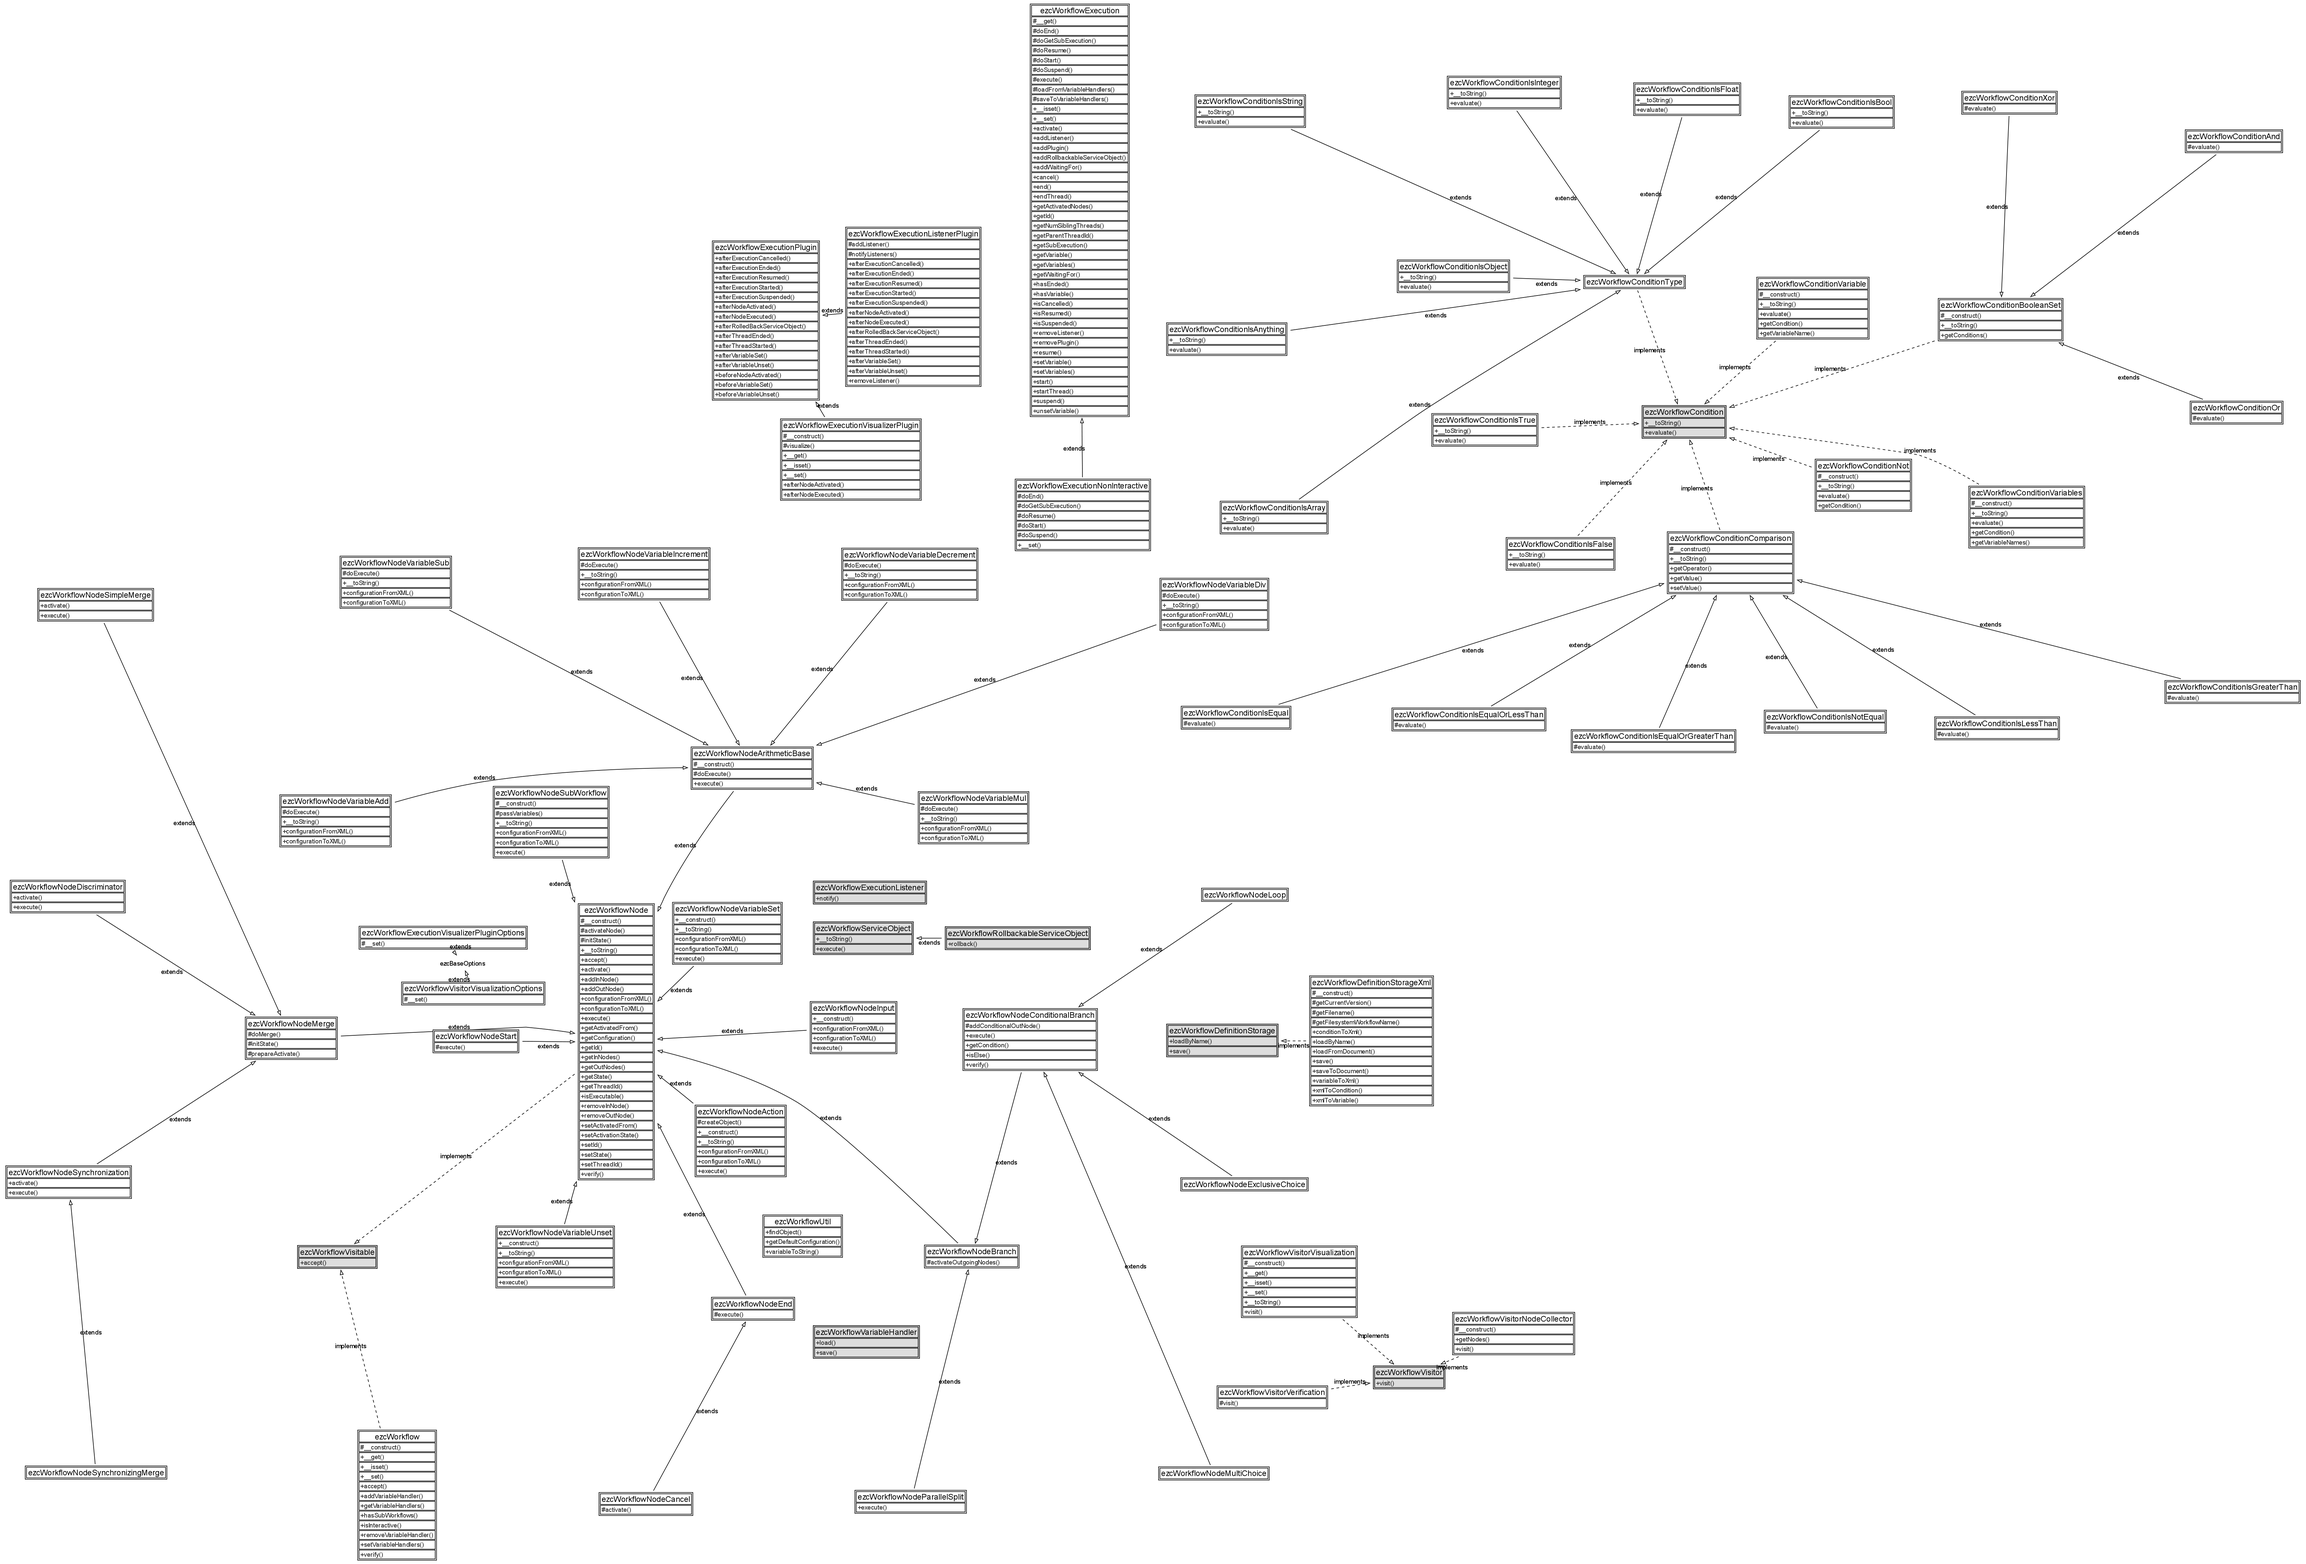
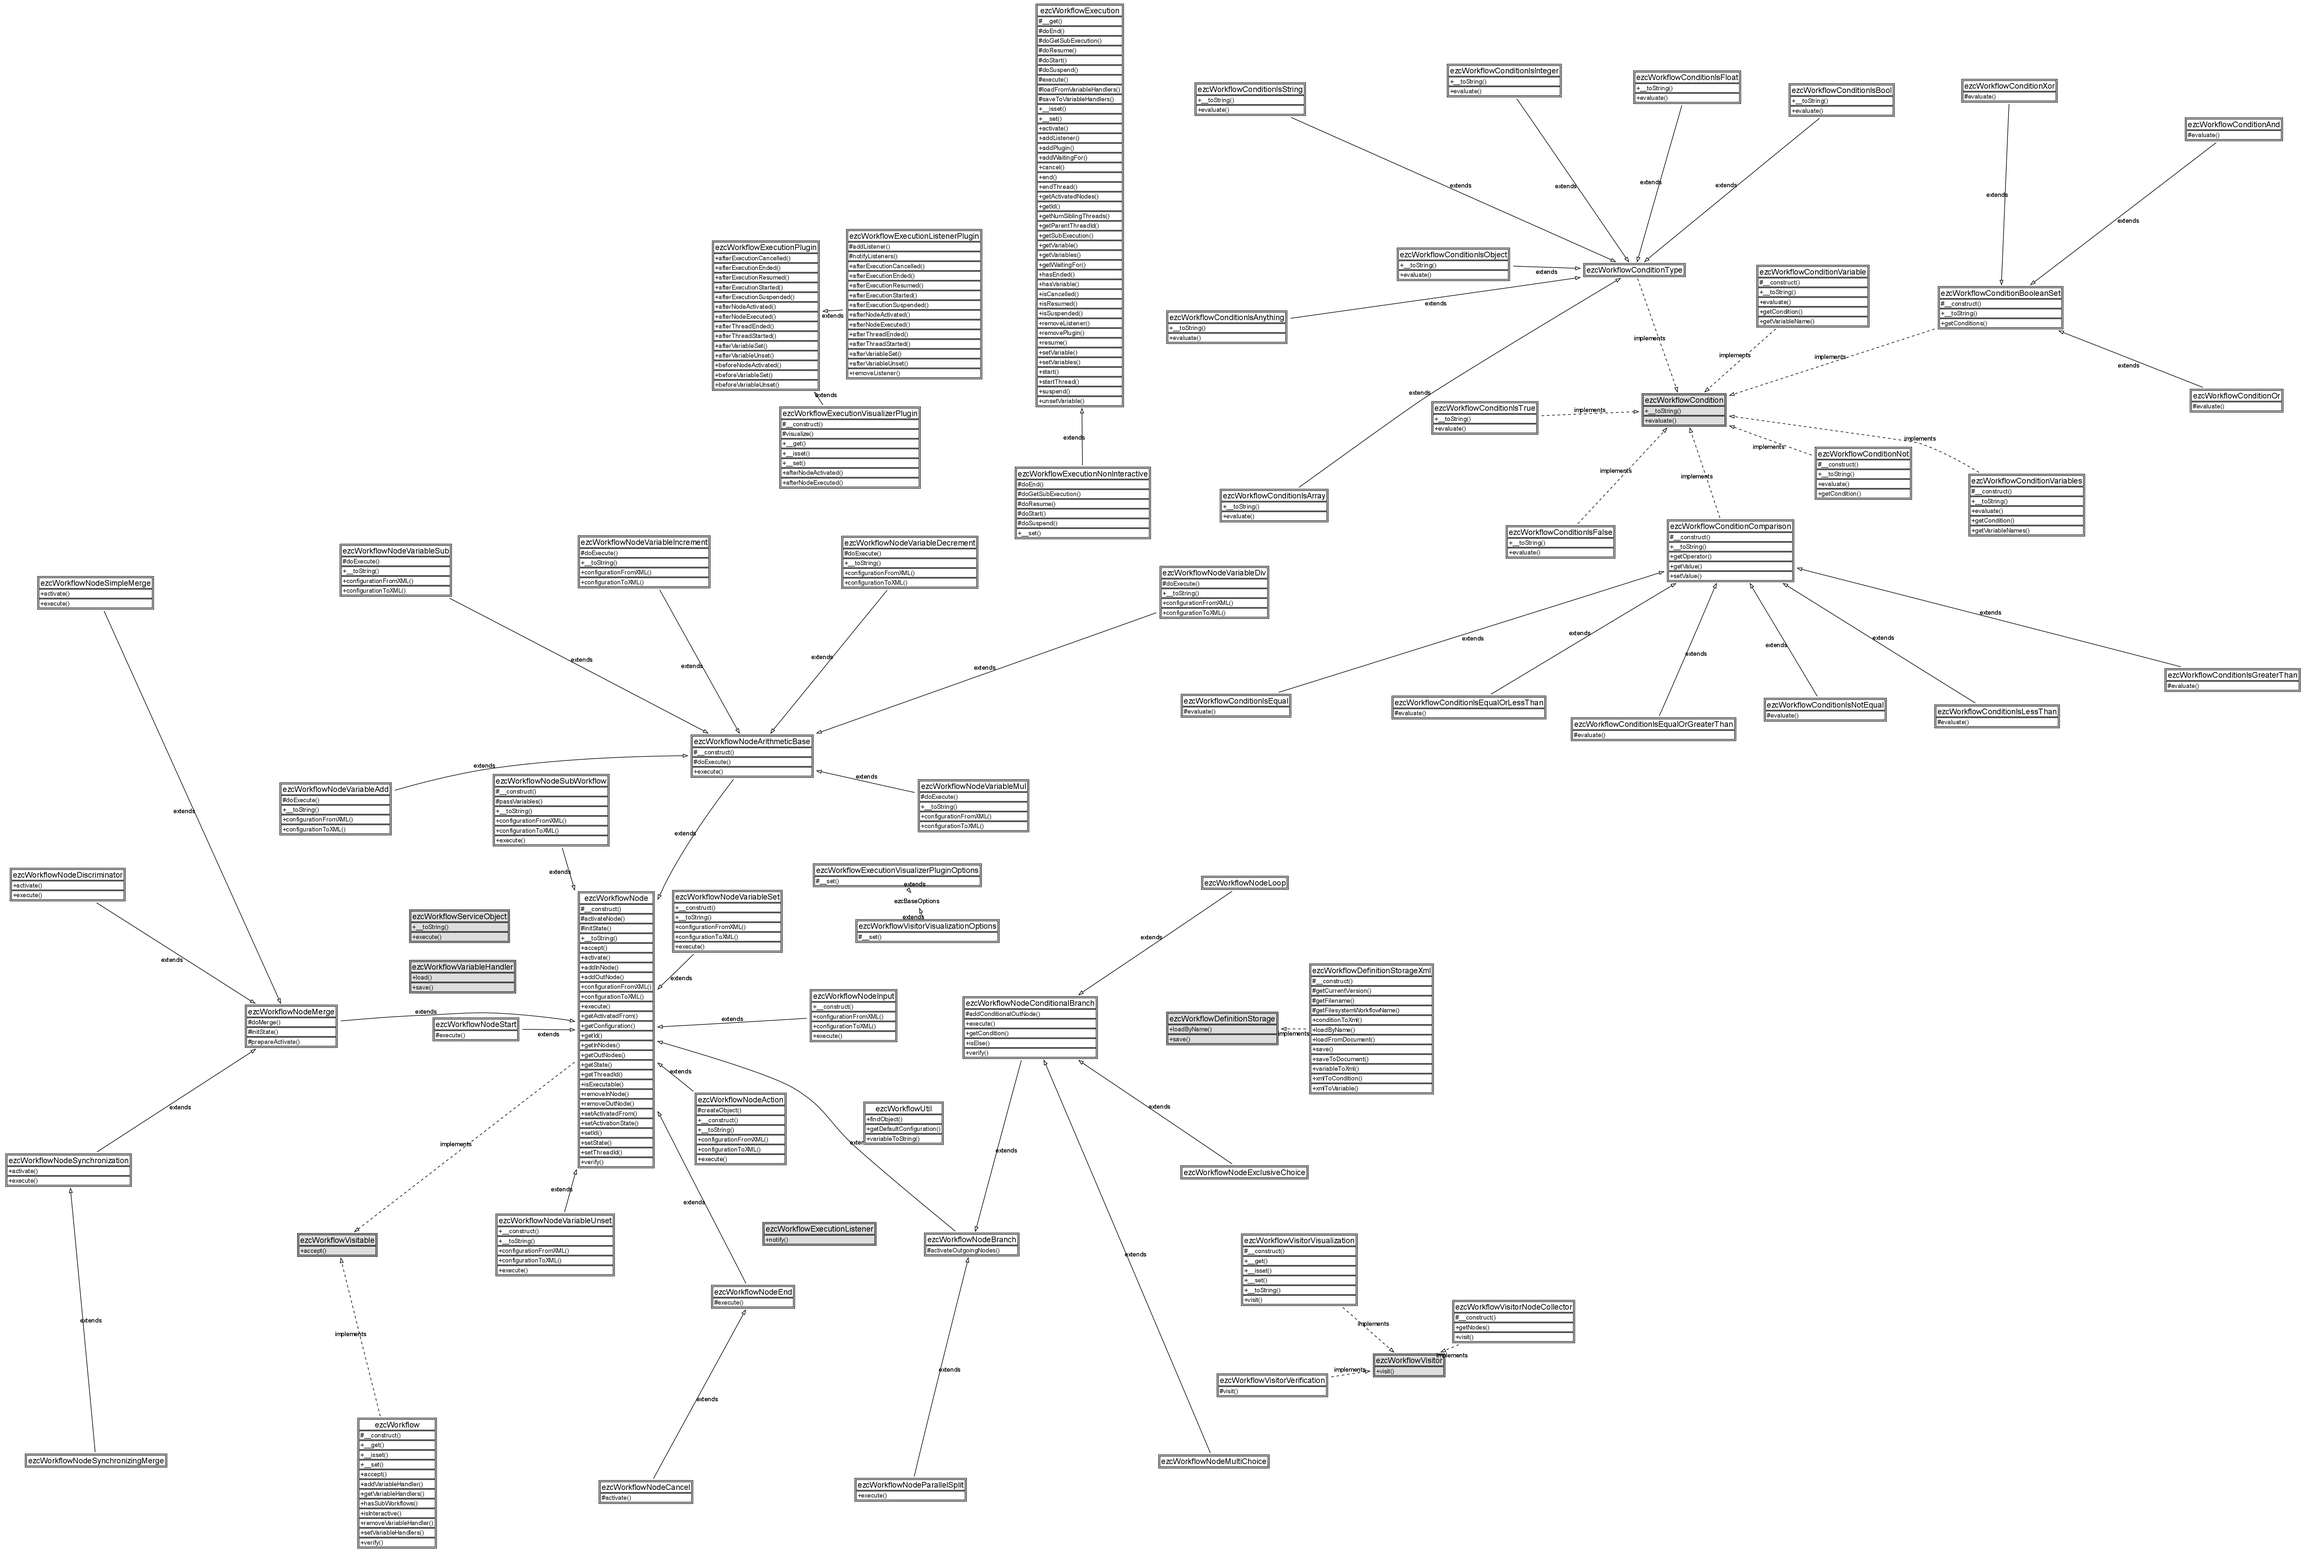
- Drop the concept of rollbackable service objects, at least for now. # I will explain the rationale behind this on the mailinglist shortly.
git-svn-id: http://svn.ez.no/svn/ezcomponents/trunk/Workflow@7601 bc0e7bdc-f0fc-0310-8ff6-f601c06e1256

diff --git a/src/interfaces/execution.php b/src/interfaces/execution.php
@@ -69,14 +69,6 @@ abstract class ezcWorkflowExecution
     protected $numActivatedEndNodes = 0;
 
     /**
-     * Rollbackable service objects that have been executed
-     * in the current execution loop.
-     *
-     * @var array
-     */
-    protected $rollbackableServiceObjects = array();
-
-    /**
      * Nodes of the workflow that started a new thread of execution.
      *
      * @var array
@@ -380,16 +372,6 @@ abstract class ezcWorkflowExecution
         $this->numActivatedNodes = 0;
         $this->waitingFor        = array();
 
-        foreach ( $this->rollbackableServiceObjects as $object )
-        {
-            $result = $object['object']->rollback( $this );
-
-            foreach ( $this->plugins as $plugin )
-            {
-                $plugin->afterRolledBackServiceObject( $this, $object['node'], $object['object'], $result );
-            }
-        }
-
         $this->end( $node );
     }
 
@@ -567,21 +549,6 @@ abstract class ezcWorkflowExecution
             return false;
             // @codeCoverageIgnoreEnd
         }
-    }
-
-    /**
-     * Adds a service object that can be rolled back
-     * when the execution is cancel()led.
-     *
-     * @param ezcWorkflowNodeAction                $node
-     * @param ezcWorkflowRollbackableServiceObject $object
-     * @ignore
-     */
-    public function addRollbackableServiceObject( ezcWorkflowNodeAction $node, ezcWorkflowRollbackableServiceObject $object )
-    {
-        $this->rollbackableServiceObjects[] = array(
-          'node'   => $node, 'object' => $object
-        );
     }
 
     /**

diff --git a/src/workflow_autoload.php b/src/workflow_autoload.php
@@ -30,7 +30,6 @@ return array(
     'ezcWorkflowNodeConditionalBranch'            => 'Workflow/interfaces/node_conditional_branch.php',
     'ezcWorkflowNodeEnd'                          => 'Workflow/nodes/end.php',
     'ezcWorkflowNodeSynchronization'              => 'Workflow/nodes/control_flow/synchronization.php',
-    'ezcWorkflowServiceObject'                    => 'Workflow/interfaces/service_object.php',
     'ezcWorkflowVisitor'                          => 'Workflow/interfaces/visitor.php',
     'ezcWorkflow'                                 => 'Workflow/workflow.php',
     'ezcWorkflowConditionAnd'                     => 'Workflow/conditions/and.php',
@@ -80,7 +79,7 @@ return array(
     'ezcWorkflowNodeVariableSet'                  => 'Workflow/nodes/variables/set.php',
     'ezcWorkflowNodeVariableSub'                  => 'Workflow/nodes/variables/sub.php',
     'ezcWorkflowNodeVariableUnset'                => 'Workflow/nodes/variables/unset.php',
-    'ezcWorkflowRollbackableServiceObject'        => 'Workflow/interfaces/rollbackable_service_object.php',
+    'ezcWorkflowServiceObject'                    => 'Workflow/interfaces/service_object.php',
     'ezcWorkflowUtil'                             => 'Workflow/util.php',
     'ezcWorkflowVariableHandler'                  => 'Workflow/interfaces/variable_handler.php',
     'ezcWorkflowVisitorNodeCollector'             => 'Workflow/visitors/node_collector.php',

diff --git a/src/execution/plugin/listener.php b/src/execution/plugin/listener.php
@@ -210,31 +210,6 @@ class ezcWorkflowExecutionListenerPlugin extends ezcWorkflowExecutionPlugin
     }
 
     /**
-     * Called after a service object has been rolled back.
-     *
-     * @param ezcWorkflowExecution                 $execution
-     * @param ezcWorkflowNode                      $node
-     * @param ezcWorkflowRollbackableServiceObject $serviceObject
-     * @param bool                                 $success
-     */
-    public function afterRolledBackServiceObject( ezcWorkflowExecution $execution, ezcWorkflowNode $node, ezcWorkflowRollbackableServiceObject $serviceObject, $success )
-    {
-        $this->notifyListeners(
-          sprintf(
-            '%s back service object "%s" of node #%d for instance #%d of workflow "%s" (version %d).',
-
-            $success ? 'Rolled' : 'Could not roll',
-            get_class( $serviceObject ),
-            $node->getId(),
-            $execution->getId(),
-            $execution->workflow->name,
-            $execution->workflow->version
-          ),
-          ezcWorkflowExecutionListener::DEBUG
-        );
-    }
-
-    /**
      * Called after a new thread has been started.
      *
      * @param ezcWorkflowExecution $execution

diff --git a/src/interfaces/execution_plugin.php b/src/interfaces/execution_plugin.php
@@ -108,20 +108,6 @@ abstract class ezcWorkflowExecutionPlugin
     // @codeCoverageIgnoreEnd
 
     /**
-     * Called after a service object has been rolled back.
-     *
-     * @param ezcWorkflowExecution                 $execution
-     * @param ezcWorkflowNode                      $node
-     * @param ezcWorkflowRollbackableServiceObject $serviceObject
-     * @param bool                                 $success
-     */
-    public function afterRolledBackServiceObject( ezcWorkflowExecution $execution, ezcWorkflowNode $node, ezcWorkflowRollbackableServiceObject $serviceObject, $success )
-    {
-    // @codeCoverageIgnoreStart
-    }
-    // @codeCoverageIgnoreEnd
-
-    /**
      * Called after a new thread has been started.
      *
      * @param ezcWorkflowExecution $execution

diff --git a/src/nodes/action.php b/src/nodes/action.php
@@ -107,13 +107,7 @@ class ezcWorkflowNodeAction extends ezcWorkflowNode
      */
     public function execute( ezcWorkflowExecution $execution )
     {
-        $object = $this->createObject();
-
-        if ( $object instanceof ezcWorkflowRollbackableServiceObject )
-        {
-            $execution->addRollbackableServiceObject( $this, $object );
-        }
-
+        $object   = $this->createObject();
         $finished = $object->execute( $execution );
 
         // Execution of the Service Object has finished.

diff --git a/tests/case.php b/tests/case.php
@@ -33,7 +33,7 @@ abstract class ezcWorkflowTestCase extends ezcTestCase
 
         if ( !class_exists( 'ServiceObject', false ) )
         {
-            $this->getMock( 'ezcWorkflowRollbackableServiceObject', array(), array(), 'ServiceObject' );
+            $this->getMock( 'ezcWorkflowServiceObject', array(), array(), 'ServiceObject' );
         }
     }
 
